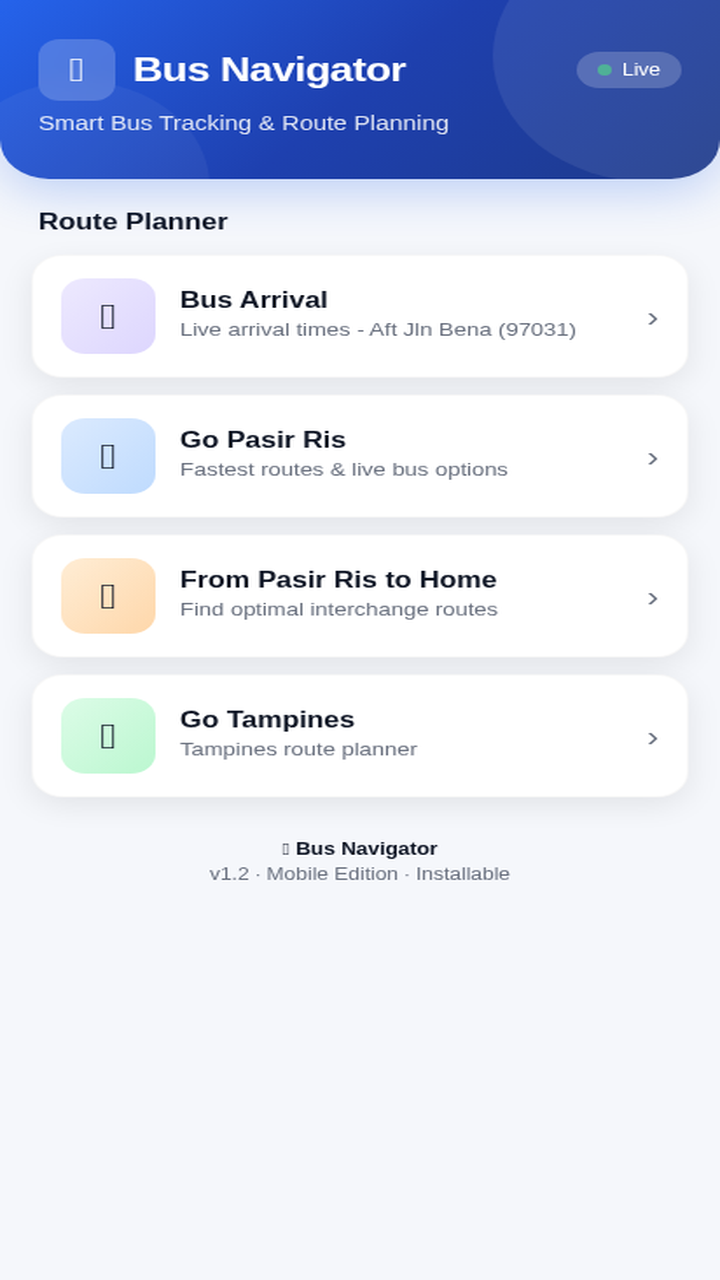
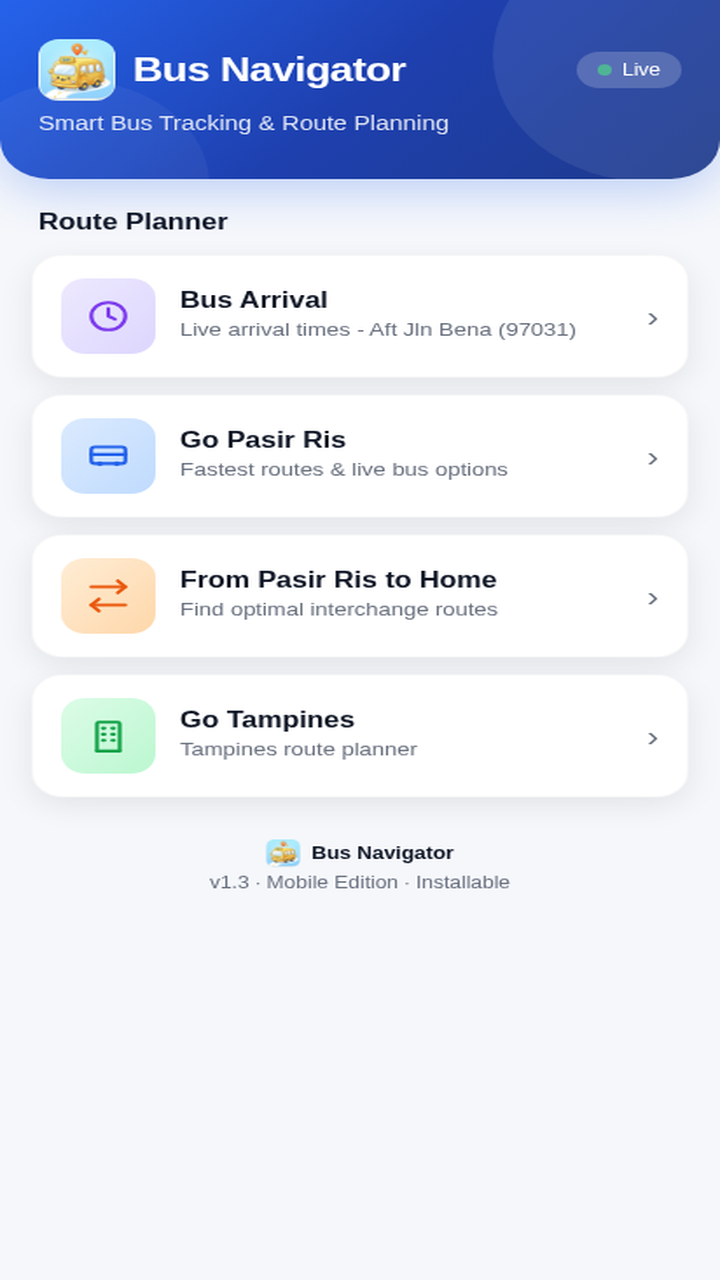
Add files via upload

diff --git a/busarrival/index.html b/busarrival/index.html
@@ -18,6 +18,7 @@
 <link rel="apple-touch-icon" href="icons/icon-192.png">
 
 <!-- Icons -->
+<link rel="icon" type="image/png" sizes="32x32" href="icons/favicon-32.png">
 <link rel="icon" type="image/png" sizes="192x192" href="icons/icon-192.png">
 <link rel="icon" type="image/png" sizes="512x512" href="icons/icon-512.png">
 
@@ -94,13 +95,19 @@ body{
 }
 .logo-icon{
     width:44px;height:44px;
-    background:rgba(255,255,255,0.2);
-    backdrop-filter:blur(10px);
     border-radius:12px;
+    overflow:hidden;
     display:flex;
     align-items:center;
     justify-content:center;
-    font-size:24px;
+    background:rgba(255,255,255,0.2);
+    backdrop-filter:blur(10px);
+}
+.logo-icon img{
+    width:100%;
+    height:100%;
+    object-fit:cover;
+    display:block;
 }
 .title{font-size:24px;font-weight:800;letter-spacing:-0.5px;}
 .subtitle{opacity:.85;margin-top:8px;font-size:14px;position:relative;z-index:1;}
@@ -158,10 +165,10 @@ body{
     justify-content:center;
     align-items:center;
     border-radius:14px;
-    font-size:26px;
     margin-right:14px;
     flex-shrink:0;
 }
+.icon svg{width:26px;height:26px;}
 .blue{background:linear-gradient(135deg,#dbeafe,#bfdbfe);}
 .green{background:linear-gradient(135deg,#dcfce7,#bbf7d0);}
 .orange{background:linear-gradient(135deg,#ffedd5,#fed7aa);}
@@ -176,7 +183,20 @@ body{
     color:var(--muted);
     font-size:12px;
 }
-.footer-brand{font-weight:600;color:var(--text);}
+.footer-brand{
+    font-weight:600;
+    color:var(--text);
+    display:flex;
+    align-items:center;
+    justify-content:center;
+    gap:6px;
+}
+.footer-brand img{
+    width:20px;
+    height:20px;
+    border-radius:5px;
+    display:block;
+}
 </style>
 </head>
 <body>
@@ -184,7 +204,7 @@ body{
 <div class="header">
     <div class="header-row">
         <div class="logo">
-            <div class="logo-icon">🚌</div>
+            <div class="logo-icon"><img src="icons/icon-192.png" alt="Bus Navigator icon"></div>
             <div class="title">Bus Navigator</div>
         </div>
         <div class="status-pill">
@@ -201,7 +221,9 @@ body{
     <div class="grid">
 
         <a href="https://busrouter.sg/bus-arrival/#97031" target="_blank" rel="noopener noreferrer" class="card">
-            <div class="icon purple">⏱</div>
+            <div class="icon purple">
+                <svg viewBox="0 0 24 24" fill="none" stroke="#7c3aed" stroke-width="2" stroke-linecap="round" stroke-linejoin="round"><circle cx="12" cy="12" r="9"></circle><polyline points="12 7 12 12 15.5 14"></polyline></svg>
+            </div>
             <div class="card-body">
                 <div class="card-title">Bus Arrival</div>
                 <div class="card-desc">Live arrival times - Aft Jln Bena (97031)</div>
@@ -210,7 +232,9 @@ body{
         </a>
 
         <a href="gopasirris.html" class="card">
-            <div class="icon blue">🚍</div>
+            <div class="icon blue">
+                <svg viewBox="0 0 24 24" fill="none" stroke="#2563eb" stroke-width="2" stroke-linecap="round" stroke-linejoin="round"><rect x="3" y="6" width="18" height="11" rx="2"></rect><path d="M3 11h18"></path><circle cx="7.5" cy="17" r="1.6" fill="#2563eb" stroke="none"></circle><circle cx="16.5" cy="17" r="1.6" fill="#2563eb" stroke="none"></circle></svg>
+            </div>
             <div class="card-body">
                 <div class="card-title">Go Pasir Ris</div>
                 <div class="card-desc">Fastest routes &amp; live bus options</div>
@@ -219,7 +243,9 @@ body{
         </a>
 
         <a href="transfer.html" class="card">
-            <div class="icon orange">🔄</div>
+            <div class="icon orange">
+                <svg viewBox="0 0 24 24" fill="none" stroke="#ea580c" stroke-width="2" stroke-linecap="round" stroke-linejoin="round"><polyline points="17 2 21 6 17 10"></polyline><path d="M3 6h18"></path><polyline points="7 22 3 18 7 14"></polyline><path d="M21 18H3"></path></svg>
+            </div>
             <div class="card-body">
                 <div class="card-title">From Pasir Ris to Home</div>
                 <div class="card-desc">Find optimal interchange routes</div>
@@ -228,7 +254,9 @@ body{
         </a>
 
         <a href="gotamp.html" class="card">
-            <div class="icon green">🏢</div>
+            <div class="icon green">
+                <svg viewBox="0 0 24 24" fill="none" stroke="#16a34a" stroke-width="2" stroke-linecap="round" stroke-linejoin="round"><path d="M6 22V4a1 1 0 0 1 1-1h10a1 1 0 0 1 1 1v18"></path><path d="M6 22h12"></path><path d="M9 7h1"></path><path d="M14 7h1"></path><path d="M9 11h1"></path><path d="M14 11h1"></path><path d="M9 15h1"></path><path d="M14 15h1"></path></svg>
+            </div>
             <div class="card-body">
                 <div class="card-title">Go Tampines</div>
                 <div class="card-desc">Tampines route planner</div>
@@ -239,8 +267,8 @@ body{
     </div>
 
     <div class="footer">
-        <div class="footer-brand">🚌 Bus Navigator</div>
-        <div style="margin-top:4px;">v1.2 · Mobile Edition · Installable</div>
+        <div class="footer-brand"><img src="icons/icon-192.png" alt="">Bus Navigator</div>
+        <div style="margin-top:4px;">v1.3 · Mobile Edition · Installable</div>
     </div>
 
 </div>

diff --git a/busarrival/service-worker.js b/busarrival/service-worker.js
@@ -1,6 +1,6 @@
 // Bus Navigator — Service Worker
 // Bump CACHE_VERSION whenever you change any cached file so old caches get replaced.
-const CACHE_VERSION = 'v1';
+const CACHE_VERSION = 'v2';
 const CACHE_NAME = `bus-navigator-${CACHE_VERSION}`;
 
 // Core "app shell" files needed for the app to load instantly, even offline.
@@ -13,6 +13,7 @@ const PRECACHE_URLS = [
   './icons/icon-512.png',
   './icons/icon-192-maskable.png',
   './icons/icon-512-maskable.png',
+  './icons/favicon-32.png',
   './gopasirris.html',
   './transfer.html',
   './gotamp.html'
